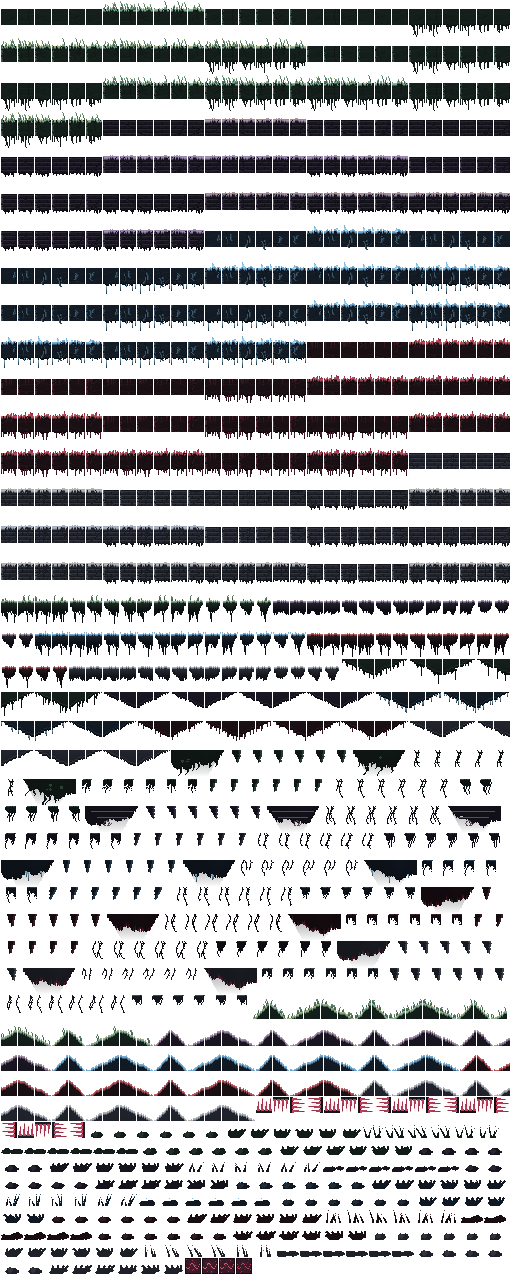
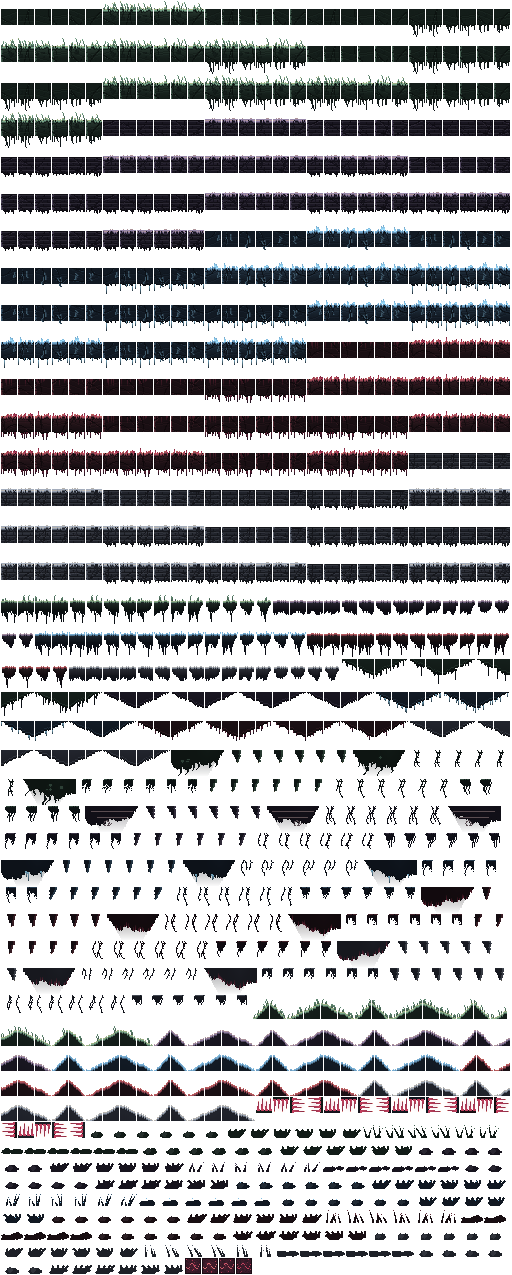
Der Fels bekommt Struktur, die Gegner Kontur, die Bewegungen Ruhe
**Die Gebiete.** Der Boden war eine schwarze Platte. Die Arbeit war
alle da - Risse von Kante zu Kante, Schichtung, ein Verlauf unter der
Oberkante -, nur unsichtbar, und zwar aus einem Grund: sie hellte
relativ auf. `shade(body, 0.12)` hebt `#16211d` um drei Zahlenwerte, und
drei Zahlenwerte sieht niemand. Auf fast schwarzem Grund muss man
absolut aufhellen, also gegen die Kantenfarbe der Region mischen. Jetzt
liest sich der Fels als Gestein.

Zwei Fehler, die dabei herauskamen:

  Der Verlauf unter der Oberkante lief auf **jeder** Kachel, auch auf
  vergrabenen. Wo eine freiliegende an eine verdeckte stiess, stand ein
  heller Kasten mitten in der Masse. Er laeuft jetzt nur noch, wo
  wirklich eine Oberkante liegt.
  Die Schichtbaender lagen bei jeder Variante auf derselben Hoehe - nur
  die Neigung wechselte. Ueber eine Wand hinweg ergab das ein
  Streifenmuster, das genau das Raster zeigte, das es verdecken sollte.
  Jetzt wandert auch die Lage.

**Die Gegner.** Cadence ist kuehles Gruen und das Hellste im Bild. Damit
ein Gegner daneben lesbar bleibt, ohne mit ihr um dieselbe Farbe zu
streiten, faengt seine Oberkante jetzt **warmes** Licht: derselbe Wert,
andere Seite des Farbkreises. So trennt sich der Gegner vom Fels und von
ihr, und man weiss auf einen Blick, was einem gehoert.

Dazu drei einzelne Sachen. Gabelmaus und Stilleschreiter lagen im selben
Wert wie der Fels, vor dem sie stehen - die Maus war eine schwarze
[…]

diff --git a/Tools/gen_characters.py b/Tools/gen_characters.py
@@ -1457,6 +1457,12 @@ def draw_heroine(
     # voll aufgedreht - sonst ist die Silhouette dauernd von Ringen und
     # Strahlen zugestellt, und man sieht nicht mehr, was gerade passiert.
     signatur: float = 0.35,
+    # Ob sie blinzeln darf. Im Sprung, im Schlag und im Sturz nicht:
+    # dort dauert die Animation drei bis fuenf Bilder, und ein Blinzeln
+    # trifft dann statistisch jedes zweite Mal genau eines davon. Was
+    # als seltenes Lebenszeichen gedacht war, wird so zu einem Zucken
+    # mitten im Schlag.
+    blinzeln: bool = True,
     # Wie weit sie schon zerfallen ist. 0 heisst: der Leib ist bis zur
     # Brust fester Kristall, nur der Kopf brennt. 1 heisst: von der
     # Huefte aufwaerts nur noch Schwingung. Der Spielstand schiebt das
@@ -1722,7 +1728,16 @@ def draw_heroine(
     for k in range(4):
         wurzel = (-0.46, -0.12, 0.22, 0.50)[k]
         lang = kopf_r * (0.95, 0.68, 1.12, 0.58)[k]
-        lang *= 0.82 + 0.36 * hash01(k * 7 + 3, int(phase * 2.0))
+        # Fest je Zunge, **nicht** je Bild.
+        #
+        # Hier stand `hash01(k * 7 + 3, int(phase * 2.0))`, und `int()`
+        # macht daraus Stufen: bei bestimmten Phasen springt jede Zunge
+        # auf eine neue Zufallslaenge. Innerhalb einer Animation sieht
+        # das nicht aus wie Flackern, sondern wie ein Fehler - die Krone
+        # zuckt zwischen zwei Bildern in eine voellig andere Form. Das
+        # Leben in der Flamme kommt aus der Neigung, die sauber mit
+        # `phase` laeuft; die Laenge bleibt.
+        lang *= 0.82 + 0.36 * hash01(k * 7 + 3, 5)
         lang *= 1.0 + aufloesung * 0.45
         dick = kopf_r * (0.26, 0.20, 0.30, 0.18)[k]
         neig = wurzel * 0.85 + math.sin(phase * 1.7 + k * 1.3) * 0.24 + lean * 0.05
@@ -1752,7 +1767,7 @@ def draw_heroine(
     # Sie blinzelt selten und kurz. Ein Blinzeln, das man erwartet, ist
     # Mechanik; eines, das man verpasst, ist Leben.
     rosa = hexc("#ff7ad0")
-    zu = math.sin(phase * 0.8) > 0.93
+    zu = blinzeln and math.sin(phase * 0.8) > 0.93
     #
     # Schmal und schraeg. Ein erster Anlauf machte sie drei Pixel breit
     # und setzte sie eng nebeneinander - das las sich als grinsender
@@ -1932,17 +1947,17 @@ def hero_animations(instrument: str, garment: str = "mantel") -> dict[str, list[
     anims["jump"] = [
         draw_heroine(instrument=instrument, garment=garment,
                      aufloesung=zerfall,
-                     signatur=laut("jump"), phase=0.6,
+                     signatur=laut("jump"), phase=0.0, blinzeln=False,
                      lean=1.6, stretch=1.30, smear=0.08, sway=-1.7,
                      leg_phase=1.2, leg_spread=0.6, crouch=1.4),
         draw_heroine(instrument=instrument, garment=garment,
                      aufloesung=zerfall,
-                     signatur=laut("jump"), phase=1.5,
+                     signatur=laut("jump"), phase=0.7, blinzeln=False,
                      lean=1.3, stretch=1.22, smear=0.04, sway=-1.1,
                      leg_phase=1.9, leg_spread=0.3, crouch=0.8),
         draw_heroine(instrument=instrument, garment=garment,
                      aufloesung=zerfall,
-                     signatur=laut("jump"), phase=2.4,
+                     signatur=laut("jump"), phase=1.4, blinzeln=False,
                      lean=1.0, stretch=1.12, sway=-0.5, glow=1.1,
                      leg_phase=2.6, crouch=0.3),
     ]
@@ -1951,7 +1966,7 @@ def hero_animations(instrument: str, garment: str = "mantel") -> dict[str, list[
     anims["fall"] = [
         draw_heroine(instrument=instrument, garment=garment,
                      aufloesung=zerfall,
-                     signatur=laut("fall"), phase=i * 1.4,
+                     signatur=laut("fall"), phase=i * 0.6, blinzeln=False,
                      lean=0.6, stretch=0.86 + i * 0.02, smear=0.18,
                      leg_phase=3.4 + i * 0.4, leg_spread=0.8,
                      sway=1.5 + math.sin(i * 1.9) * 0.5)
@@ -1962,17 +1977,17 @@ def hero_animations(instrument: str, garment: str = "mantel") -> dict[str, list[
     anims["land"] = [
         draw_heroine(instrument=instrument, garment=garment,
                      aufloesung=zerfall,
-                     signatur=laut("land"), phase=1.1,
+                     signatur=laut("land"), phase=0.0, blinzeln=False,
                      stretch=0.68, settle=3, smear=0.36, sway=2.1,
                      leg_spread=1.4, crouch=2.6),
         draw_heroine(instrument=instrument, garment=garment,
                      aufloesung=zerfall,
-                     signatur=laut("land"), phase=1.8,
+                     signatur=laut("land"), phase=0.7, blinzeln=False,
                      stretch=0.84, settle=1, smear=0.18, sway=1.2,
                      leg_spread=0.7, crouch=1.2),
         draw_heroine(instrument=instrument, garment=garment,
                      aufloesung=zerfall,
-                     signatur=laut("land"), phase=2.5,
+                     signatur=laut("land"), phase=1.4, blinzeln=False,
                      stretch=1.04, smear=0.05, sway=0.4),
     ]
 
@@ -1980,7 +1995,7 @@ def hero_animations(instrument: str, garment: str = "mantel") -> dict[str, list[
     anims["dash"] = [
         draw_heroine(instrument=instrument, garment=garment,
                      aufloesung=zerfall,
-                     signatur=laut("dash"), phase=i * 1.7, lean=4.0 - i,
+                     signatur=laut("dash"), phase=i * 0.5, blinzeln=False, lean=4.0 - i,
                      stretch=0.82, smear=0.9 - i * 0.2, split=0.5 - i * 0.15,
                      glow=1.4, alpha_body=235 - i * 30)
         for i in range(3)
@@ -1989,7 +2004,7 @@ def hero_animations(instrument: str, garment: str = "mantel") -> dict[str, list[
     anims["wall"] = [
         draw_heroine(instrument=instrument, garment=garment,
                      aufloesung=zerfall,
-                     signatur=laut("wall"), phase=i * 1.6,
+                     signatur=laut("wall"), phase=i * 0.6, blinzeln=False,
                      lean=-1.8, stretch=1.10 - i * 0.02, smear=0.1,
                      sway=-0.7 - i * 0.25)
         for i in range(3)
@@ -2008,23 +2023,23 @@ def hero_animations(instrument: str, garment: str = "mantel") -> dict[str, list[
     anims["melee"] = [
         draw_heroine(instrument=instrument, garment=garment,
                      aufloesung=zerfall,
-                     signatur=laut("melee"), phase=0.1, lean=-2.4, whip=-0.55,
+                     signatur=laut("melee"), phase=0.0, blinzeln=False, lean=-2.4, whip=-0.55,
                      stretch=1.10, settle=-1, glow=0.9, schwung=0.0),
         draw_heroine(instrument=instrument, garment=garment,
                      aufloesung=zerfall,
-                     signatur=laut("melee"), phase=0.9, lean=1.2, whip=0.35,
+                     signatur=laut("melee"), phase=0.6, blinzeln=False, lean=1.2, whip=0.35,
                      stretch=1.02, smear=0.5, glow=1.4, schwung=0.30),
         draw_heroine(instrument=instrument, garment=garment,
                      aufloesung=zerfall,
-                     signatur=laut("melee"), phase=1.7, lean=3.8, whip=0.95,
+                     signatur=laut("melee"), phase=1.2, blinzeln=False, lean=3.8, whip=0.95,
                      stretch=0.90, smear=0.85, glow=1.8, schwung=0.66),
         draw_heroine(instrument=instrument, garment=garment,
                      aufloesung=zerfall,
-                     signatur=laut("melee"), phase=2.4, lean=2.6, whip=0.55,
+                     signatur=laut("melee"), phase=1.8, blinzeln=False, lean=2.6, whip=0.55,
                      stretch=0.96, smear=0.25, glow=1.3, schwung=0.88),
         draw_heroine(instrument=instrument, garment=garment,
                      aufloesung=zerfall,
-                     signatur=laut("melee"), phase=3.0, lean=1.0, whip=0.15,
+                     signatur=laut("melee"), phase=2.4, blinzeln=False, lean=1.0, whip=0.15,
                      stretch=1.02, glow=1.1, schwung=1.0),
     ]
 
@@ -2033,19 +2048,19 @@ def hero_animations(instrument: str, garment: str = "mantel") -> dict[str, list[
     anims["cast"] = [
         draw_heroine(instrument=instrument, garment=garment,
                      aufloesung=zerfall,
-                     signatur=laut("cast"), phase=0.2, stretch=0.86,
+                     signatur=laut("cast"), phase=0.0, blinzeln=False, stretch=0.86,
                      lean=-1.4, settle=1, glow=0.9),
         draw_heroine(instrument=instrument, garment=garment,
                      aufloesung=zerfall,
-                     signatur=laut("cast"), phase=1.0, stretch=0.94,
+                     signatur=laut("cast"), phase=0.6, blinzeln=False, stretch=0.94,
                      lean=-0.4, glow=1.2),
         draw_heroine(instrument=instrument, garment=garment,
                      aufloesung=zerfall,
-                     signatur=laut("cast"), phase=1.8, stretch=1.18,
+                     signatur=laut("cast"), phase=1.2, blinzeln=False, stretch=1.18,
                      lean=1.4, split=0.32, glow=1.9),
         draw_heroine(instrument=instrument, garment=garment,
                      aufloesung=zerfall,
-                     signatur=laut("cast"), phase=2.9, stretch=1.04,
+                     signatur=laut("cast"), phase=1.8, blinzeln=False, stretch=1.04,
                      lean=0.4, split=0.10, glow=1.3),
     ]
 
@@ -2053,17 +2068,17 @@ def hero_animations(instrument: str, garment: str = "mantel") -> dict[str, list[
     anims["hurt"] = [
         draw_heroine(instrument=instrument, garment=garment,
                      aufloesung=zerfall,
-                     signatur=laut("hurt"), phase=1.9, lean=-3.4,
+                     signatur=laut("hurt"), phase=0.0, blinzeln=False, lean=-3.4,
                      stretch=0.84, split=0.85, smear=0.45, sway=-2.2,
                      glow=0.4, alpha_body=195),
         draw_heroine(instrument=instrument, garment=garment,
                      aufloesung=zerfall,
-                     signatur=laut("hurt"), phase=2.9, lean=-2.2,
+                     signatur=laut("hurt"), phase=0.6, blinzeln=False, lean=-2.2,
                      stretch=0.90, split=0.45, smear=0.25, sway=-1.2,
                      glow=0.6, alpha_body=220),
         draw_heroine(instrument=instrument, garment=garment,
                      aufloesung=zerfall,
-                     signatur=laut("hurt"), phase=3.9, lean=-1.0,
+                     signatur=laut("hurt"), phase=1.2, blinzeln=False, lean=-1.0,
                      stretch=0.97, split=0.15, sway=-0.4,
                      glow=0.85, alpha_body=240),
     ]
@@ -2131,7 +2146,17 @@ def _flaeche(c: Canvas, punkte, farbe, kante=None) -> None:
             c.line(*punkte[i], *punkte[(i + 1) % len(punkte)], kante)
 
 
-def _kante_licht(c: Canvas, oben, unten) -> None:
+# Der Saum, den jedes Tier bekommt.
+#
+# Cadence ist kuehles Gruen und das Hellste im Bild. Damit ein Gegner
+# neben ihr lesbar bleibt, ohne mit ihr um dieselbe Farbe zu streiten,
+# faengt seine Oberkante **warmes** Licht: derselbe Wert, andere Seite
+# des Farbkreises. So trennt sich Gegner von Fels *und* von Heldin, und
+# man weiss auf einen Blick, was einem gehoert und was nicht.
+KREATUR_SAUM = mix(P.AMBER, P.BONE, 0.52)
+
+
+def _kante_licht(c: Canvas, oben, unten, warm: float = 0.42) -> None:
     """
     Legt Licht auf die Oberkante und Schatten unter die Unterkante.
 
@@ -2143,11 +2168,12 @@ def _kante_licht(c: Canvas, oben, unten) -> None:
     Wird mitten im Zeichnen gerufen: nur was bis dahin steht, bekommt
     Licht. Beine und Ohren, die danach kommen, bleiben unberuehrt.
     """
+    licht = mix(oben, KREATUR_SAUM, warm)
     for x in range(c.w):
         spalte = [y for y in range(c.h) if c.get(x, y)[3] > 40]
         if not spalte:
             continue
-        c.set(x, spalte[0], oben)
+        c.set(x, spalte[0], licht)
         if len(spalte) > 2:
             c.set(x, spalte[-1], unten)
 
@@ -2292,7 +2318,12 @@ def draw_gabelmaus(phase: float) -> Canvas:
     # Sie muss sich vom Hain abheben, und der Hain ist dunkelgruen. Ein zu
     # dunkles Fell verschwindet darin - der erste Gegner des Spiels darf
     # aber nie uebersehen werden.
-    fell = mix(P.CLOAK, P.STONE, 0.85)
+    # Der Hain ist dunkelgruen, `P.STONE` ist dunkelblau, und zwischen
+    # beiden liegen keine zwanzig Helligkeitswerte - im Bild war die Maus
+    # eine schwarze Kontur mit zwei leuchtenden Ohren. Der erste Gegner
+    # des Spiels darf nie uebersehen werden, also bekommt das Fell einen
+    # eigenen Wert deutlich ueber dem Fels.
+    fell = mix(P.STONE, P.STONE_HI, 0.85)
     fell_hi = mix(fell, P.BONE, 0.34)
     fell_lo = shade(fell, -0.38)
     ader = mix(P.TRIM, P.BONE, 0.5)
@@ -2475,8 +2506,11 @@ def draw_stilleschreiter(phase: float, sturm: float = 0.0) -> Canvas:
     # Ansage ist kein Gegner, sondern eine Falle.
     ky = base - 15 - heben + sturm * 3.0
 
-    stein = P.STONE
-    stein_hi = P.STONE_HI
+    # Dieselbe Rechnung wie bei der Gabelmaus: `P.STONE` liegt zu nah am
+    # Fels, vor dem er steht. Er bleibt der dunkelste Gegner - aber
+    # dunkel heisst lesbar dunkel, nicht schwarz auf schwarz.
+    stein = mix(P.STONE, P.STONE_HI, 0.55)
+    stein_hi = mix(P.STONE_HI, P.BONE_SH, 0.35)
     stein_lo = P.STONE_LO
     fuge = mix(P.GLOW_DIM, P.STONE, 0.55)
 
@@ -2641,16 +2675,23 @@ def draw_echoscherbe(phase: float) -> Canvas:
             c.line((pts[0][0] + pts[1][0]) / 2, (pts[0][1] + pts[1][1]) / 2,
                    cx, cy, facette)
 
+    # Sie trug bisher genau Cadences Gruen. Auf dem Bild sah das aus wie
+    # ein abgesprungenes Stueck von ihr - der Splitter gehoert aber der
+    # Welt, nicht ihr. Also derselbe Aufbau in Bernstein: kalt ist sie,
+    # warm ist alles, was ihr entgegenkommt.
+    scherbe_hell = mix(P.AMBER, P.BONE, 0.30)
+    scherbe_tief = mix(P.AMBER, P.INK2, 0.55)
+
     # Erst die Echos, dann die scharfe Scherbe darueber.
     for k in (2, 1):
-        blass = (P.GLOW_DIM[0], P.GLOW_DIM[1], P.GLOW_DIM[2], 54 - k * 14)
+        blass = (scherbe_tief[0], scherbe_tief[1], scherbe_tief[2], 58 - k * 14)
         splitter(phase - k * 0.5, 7.0 - k * 0.7, (0, 0, 0, 0), blass)
-    splitter(phase, 7.4, mix(P.GLOW_DIM, P.INK2, 0.62), P.GLOW,
-             facette=mix(P.GLOW_DIM, P.GLOW, 0.5))
+    splitter(phase, 7.4, mix(scherbe_tief, P.INK2, 0.55), scherbe_hell,
+             facette=mix(scherbe_tief, scherbe_hell, 0.5))
 
-    _hohlraum(c, cx, cy, 2.0, P.GLOW, puls=abs(math.sin(phase * 2)))
+    _hohlraum(c, cx, cy, 2.0, scherbe_hell, puls=abs(math.sin(phase * 2)))
 
-    c.glow(cx, cy, 10, (P.GLOW[0], P.GLOW[1], P.GLOW[2], 44))
+    c.glow(cx, cy, 10, (P.AMBER[0], P.AMBER[1], P.AMBER[2], 40))
     return c.roh
 
 

diff --git a/Tools/gen_world.py b/Tools/gen_world.py
@@ -61,10 +61,22 @@ def tile_solid(region: str, variant: int, edges: str) -> Canvas:
             # Ein gleichmaessiger Verlauf ueber die Kachelhoehe ergibt bei
             # Wiederholung waagerechte Streifen. Deshalb nur die obersten
             # Reihen aufhellen und den Rest fleckig halten.
-            near_top = max(0.0, 1 - y / 6) * 0.16
+            # Unter der beleuchteten Oberkante ist der Fels heller und
+            # wird nach unten hin dunkler. Vorher reichte die Aufhellung
+            # sechs Reihen weit und betrug sechzehn Hundertstel - auf
+            # fast schwarzem Grund also nichts. Jetzt geht sie ueber die
+            # ganze Kachelhoehe und mischt gegen die Kantenfarbe, damit
+            # man sie auch sieht.
+            # Nur wo wirklich eine Oberkante liegt. Eine vergrabene
+            # Kachel hat kein Licht von oben, und wenn sie es trotzdem
+            # bekommt, steht mitten in der Masse ein heller Kasten -
+            # genau an der Stelle, wo eine freiliegende Kachel an eine
+            # verdeckte stoesst.
+            oben = max(0.0, 1 - y / (TS * 0.85)) ** 1.4 if "t" in edges else 0.0
             mottle = (hash01(x * 3 + variant * 17, y * 5) * 0.5
                       + rng.next() * 0.5) * 0.13
-            col = mix(body, shade(body, -0.30), 0.22 + mottle - near_top)
+            col = mix(body, shade(body, -0.34), 0.30 + mottle)
+            col = mix(col, edge, 0.20 * oben)
             c.set(x, top + y, col)
 
     if region in ("kathedrale", "bruecke"):
@@ -114,18 +126,23 @@ def tile_solid(region: str, variant: int, edges: str) -> Canvas:
     # sieht statt einer Fuge.
     # Sparsam: zwei bis drei Risse je Kachel ergeben ueber eine Wand
     # hinweg ein Netz, und ein Netz ist wieder ein Muster.
-    _risse(c, top, body, rng, anzahl=rng.int(0, 2))
+    _risse(c, top, body, rng, anzahl=rng.int(1, 3), edge=edge)
 
     # Eine angedeutete Schichtung. Sie kippt je nach Variante, damit sich
     # ueber mehrere Kacheln keine Waagerechte bildet.
+    # Die Bandlage muss mit der Variante wandern, nicht nur die Neigung.
+    # Sonst liegen ueber eine ganze Wand hinweg alle Baender auf
+    # derselben Hoehe, und das Raster steht als Streifenmuster im Bild.
     neigung = (-0.35, 0.0, 0.28, -0.15, 0.4, -0.28, 0.12, 0.34)[variant % 8]
     for band in range(2):
-        y0 = 3 + band * 7 + int(hash01(variant, band) * 3)
+        y0 = 2 + band * 6 + int(hash01(variant * 13 + band * 7, 3) * 7)
         for x in range(TS):
             yy = top + int(y0 + neigung * (x - TS / 2))
             if top <= yy < top + TS - 1:
-                c.blend(x, yy, (*shade(body, -0.22)[:3], 90))
-                c.blend(x, yy + 1, (*shade(body, 0.10)[:3], 45))
+                # Dieselbe Rechnung wie bei den Rissen: die dunkle Seite
+                # darf relativ bleiben, die helle muss absolut sein.
+                c.blend(x, yy, (*shade(body, -0.40)[:3], 85))
+                c.blend(x, yy + 1, (*mix(body, edge, 0.20)[:3], 50))
 
     # ---- Kanten
 
@@ -257,16 +274,23 @@ def tile_solid(region: str, variant: int, edges: str) -> Canvas:
     return c
 
 
-def _risse(c: Canvas, top: int, body, rng: Rng, anzahl: int = 2) -> None:
+def _risse(c: Canvas, top: int, body, rng: Rng, anzahl: int = 2,
+           edge=None) -> None:
     """
     Risse durch die Masse - von Kante zu Kante, nie mittendrin endend.
 
     Ein Riss hat zwei Seiten: die eine liegt im Schatten, die andere
     faengt Licht. Ohne diesen Unterschied ist er ein Kritzel; mit ihm
     ist er eine Kluft, und die Masse bekommt Dicke.
+
+    Die helle Seite wird **gegen die Kantenfarbe** gemischt, nicht mit
+    `shade` aufgehellt. Der Fels ist fast schwarz - `shade(body, 0.12)`
+    hebt ihn dort um drei Zahlenwerte, und drei Zahlenwerte sieht
+    niemand. Deshalb war die ganze Rissarbeit im Spiel nicht zu sehen und
+    der Boden blieb eine schwarze Platte.
     """
-    dunkel = shade(body, -0.32)
-    hell = shade(body, 0.12)
+    dunkel = shade(body, -0.45)
+    hell = mix(body, edge, 0.28) if edge is not None else shade(body, 0.12)
     for _ in range(anzahl):
         # Start und Ziel auf zwei verschiedenen Kanten.
         seiten = [0, 1, 2, 3]
